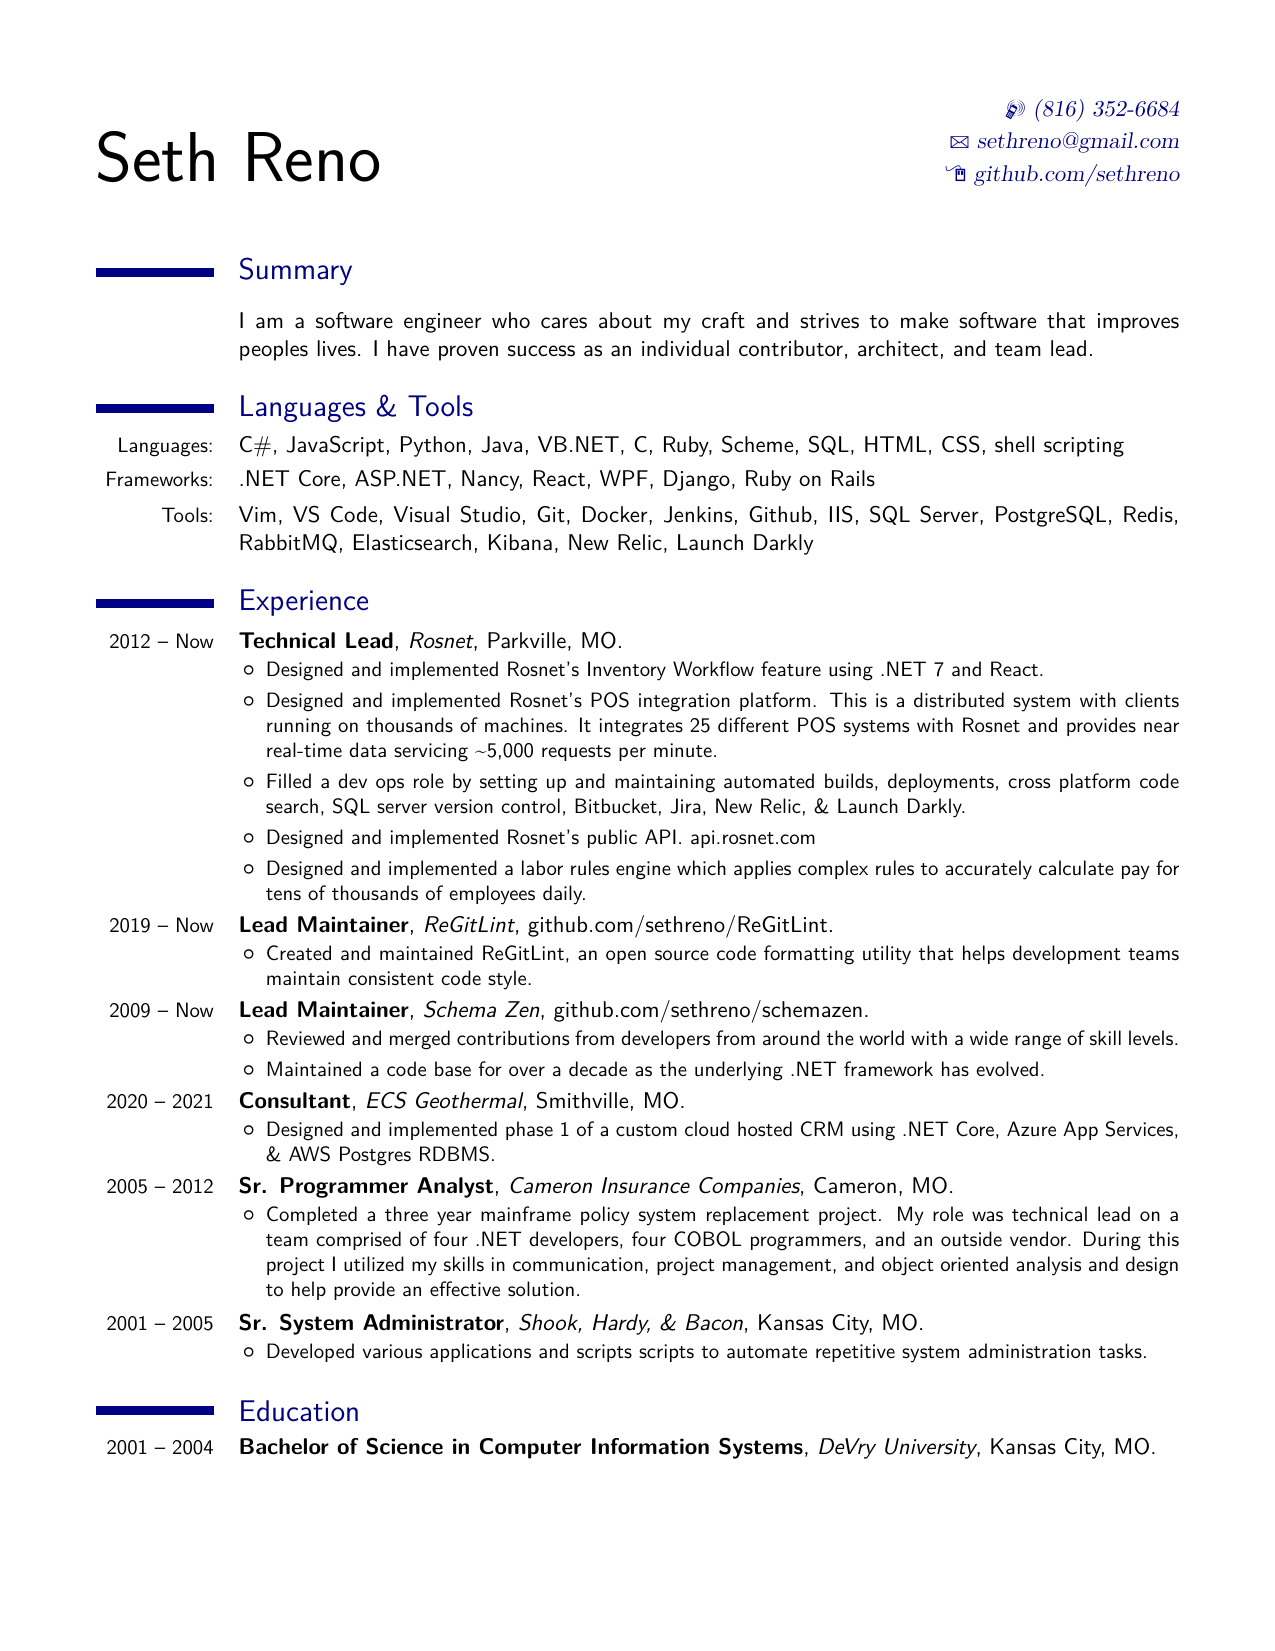
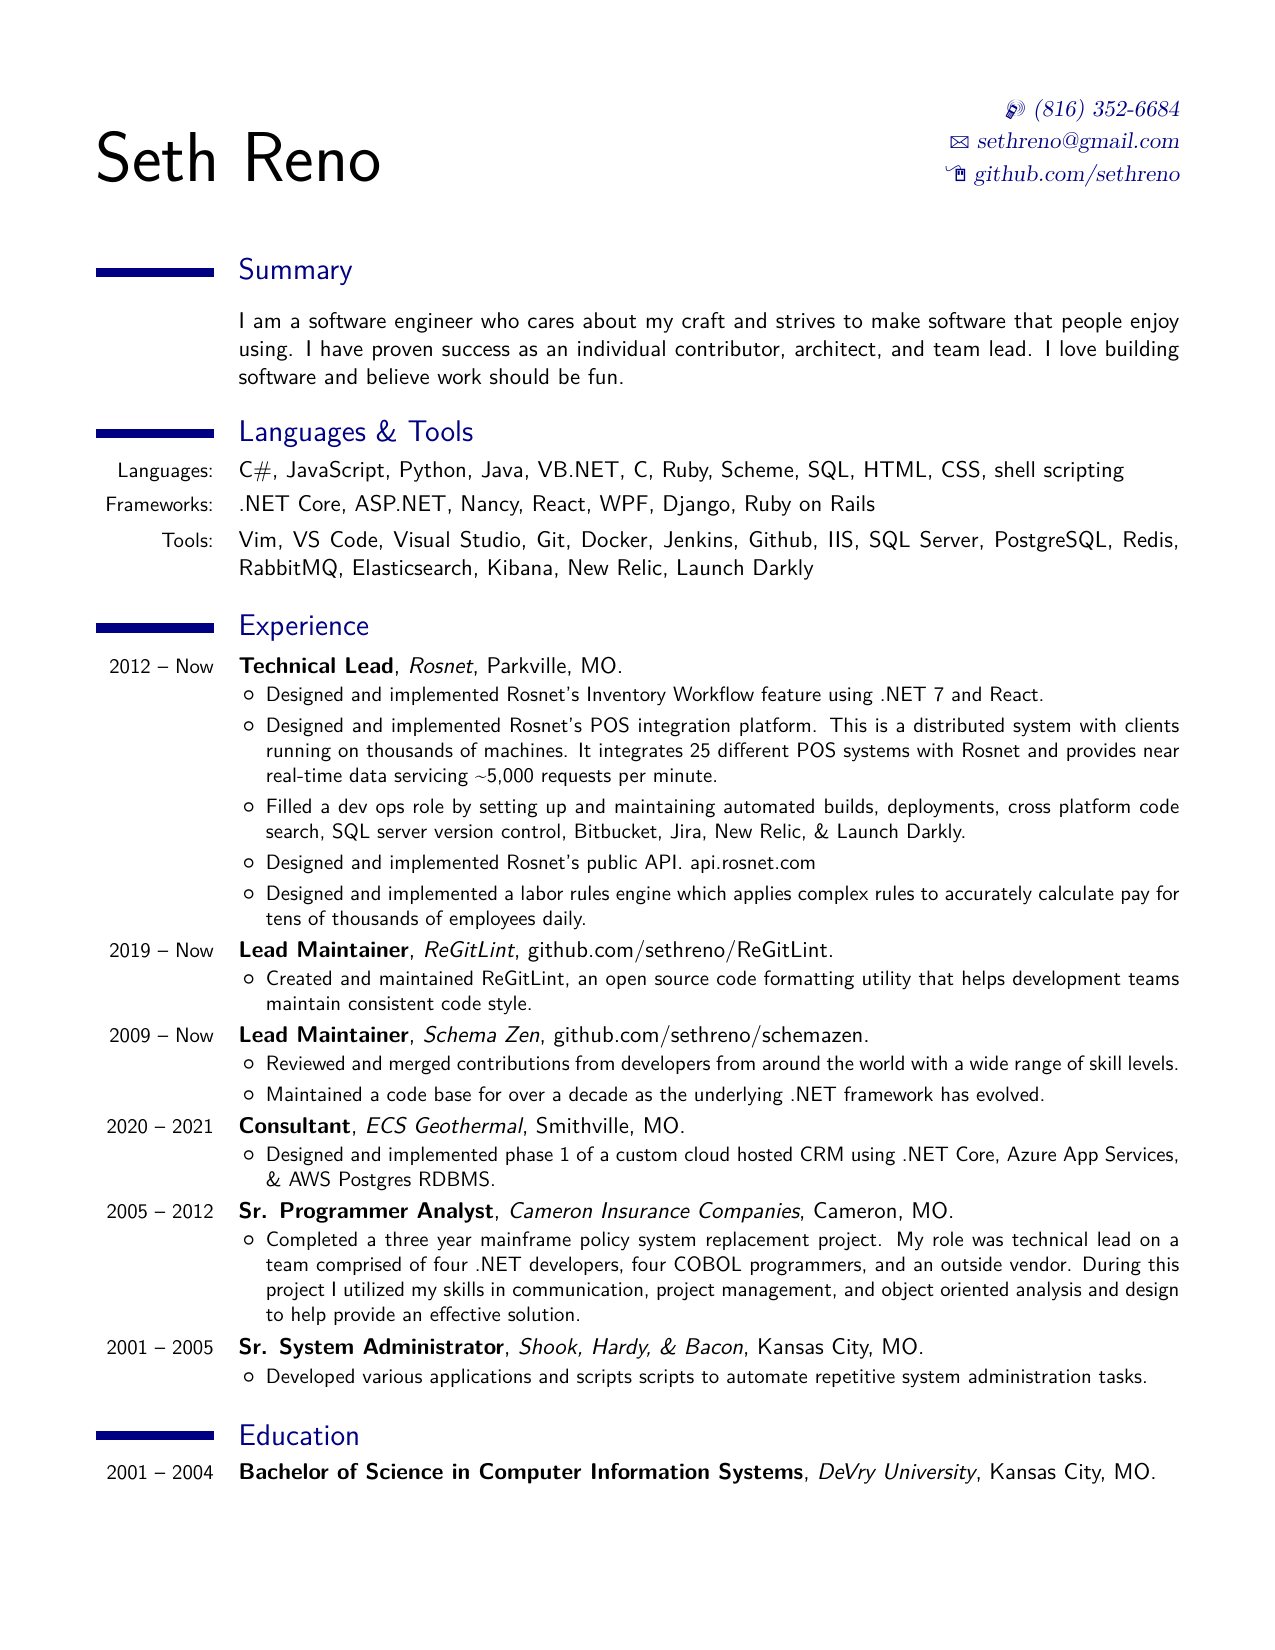
Update summary

Changed region(s): [[0.0612, 0.1855, 0.9176, 0.8964]]

diff --git a/src/resume.tex b/src/resume.tex
@@ -50,8 +50,9 @@
 \section{Summary}
 \cvline{}{ 
 I am a software engineer who cares about my craft and strives to make
-software that improves peoples lives. I have proven success as an
-individual contributor, architect, and team lead.
+software that people enjoy using. I have proven success as an
+individual contributor, architect, and team lead. I love building software and
+believe work should be fun.
 }
 
 \section{Languages \& Tools} 
